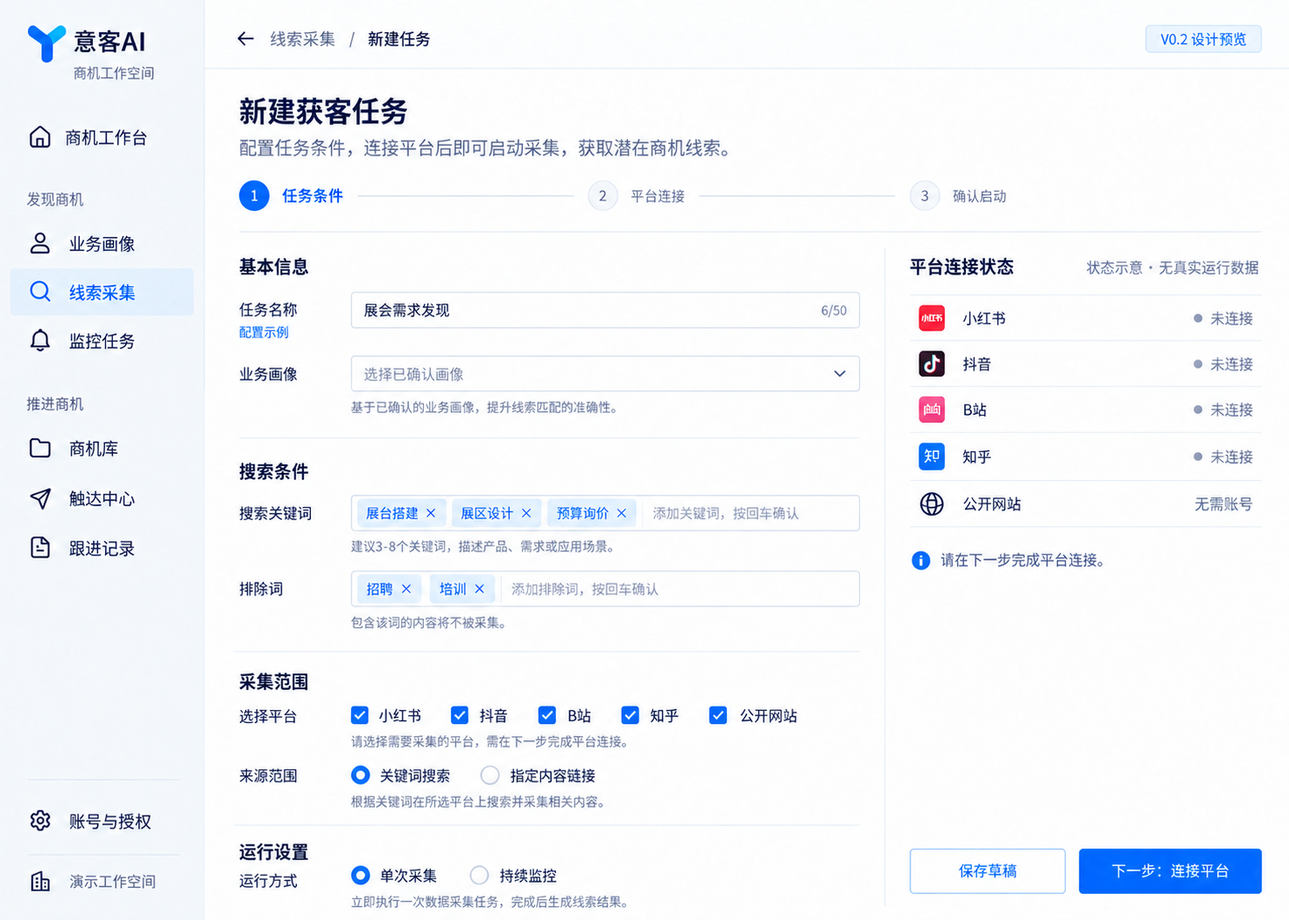
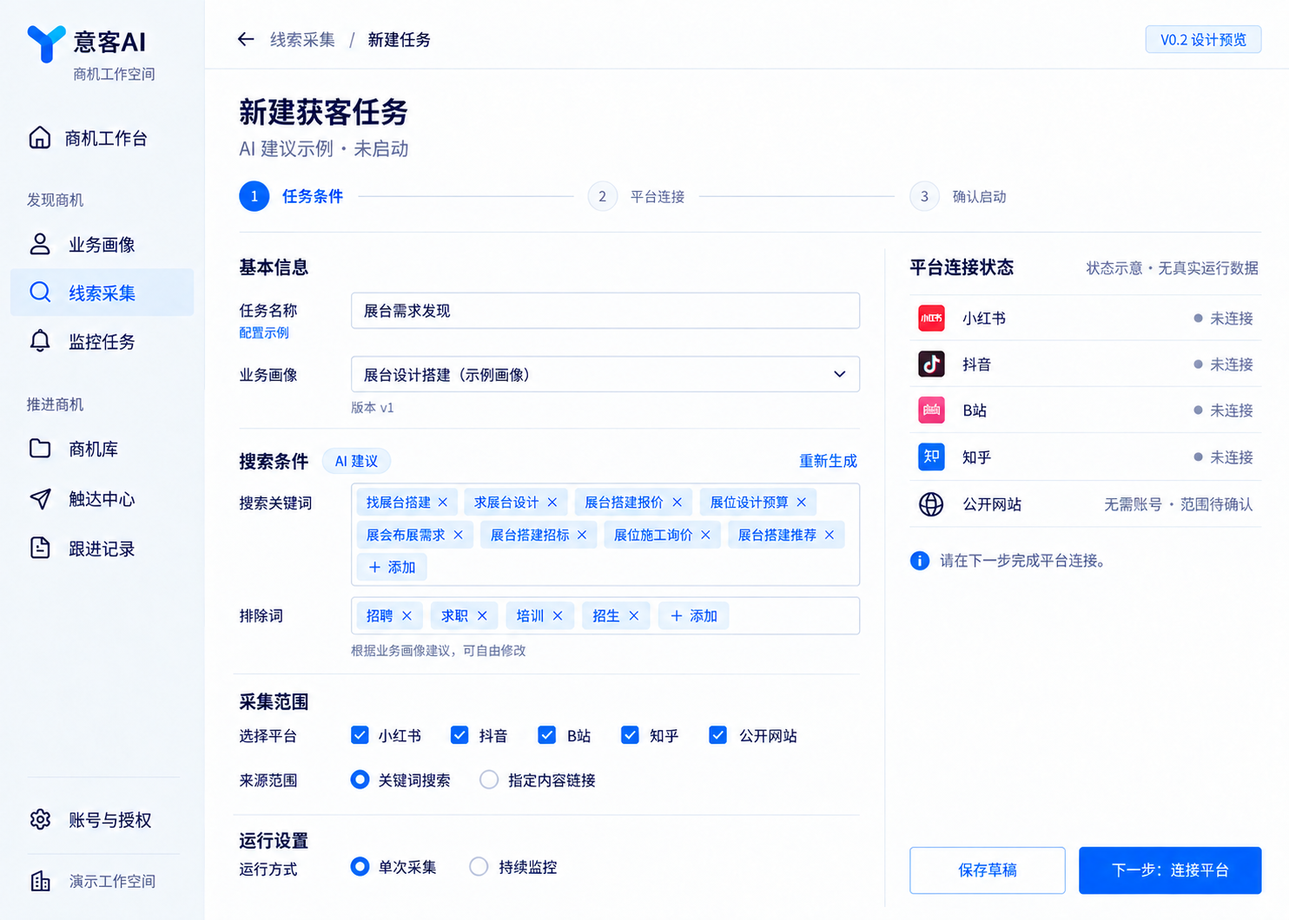
design: prefill editable search conditions from business profiles

diff --git a/design/v02-suite/index.html b/design/v02-suite/index.html
@@ -8,10 +8,10 @@
 </head>
 <body>
   <header>
-    <div><strong>意客AI · 页面设计评审</strong><span id="summary">R1 · 等待你的确认</span></div>
+    <div><strong>意客AI · 页面设计评审</strong><span id="summary">等待你的确认</span></div>
     <nav aria-label="评审工具"><button id="overview" type="button">总览</button><button id="previous" type="button">上一页</button><button id="next" type="button">下一页</button><a id="original" target="_blank" rel="noopener">打开原图</a></nav>
   </header>
-  <aside><p class="hint">这是一套设计图，图中产品按钮尚不能操作。</p><nav id="pages" aria-label="设计页目录"></nav><a class="spec" href="PAGE_STATE_MATRIX.md">页面与状态说明</a><a class="spec" href="DESIGN_SYSTEM.md">统一组件规范</a></aside>
+  <aside><p class="hint">这是一套设计图，图中产品按钮尚不能操作。</p><nav id="pages" aria-label="设计页目录"></nav><a class="spec" href="AI_SEARCH_CONDITIONS.md">AI 搜索条件交互</a><a class="spec" href="PAGE_STATE_MATRIX.md">页面与状态说明</a><a class="spec" href="DESIGN_SYSTEM.md">统一组件规范</a></aside>
   <main>
     <section id="single" hidden><div class="caption"><h1 id="title" tabindex="-1"></h1><p id="position"></p></div><div class="canvas"><img id="screen" alt="" decoding="async"><p id="image-error" class="hint" role="status" hidden>图片加载失败，请刷新或通过“打开原图”查看。</p></div></section>
     <section id="grid"><div class="caption"><h1>完整页面与关键操作</h1><p>点击任意页面查看大图；可用左右方向键逐页浏览。</p></div><div id="thumbnails"></div></section>

diff --git a/design/v02-suite/review.js b/design/v02-suite/review.js
@@ -38,7 +38,7 @@ document.addEventListener("keydown",event=>{
 });
 fetch("manifest.json").then(response=>{if(!response.ok)throw new Error("manifest unavailable");return response.json();}).then(data=>{
   state.pages=data.pages;
-  el("summary").textContent="R1 · "+state.pages.length+" 页 · 等待你的确认";
+  el("summary").textContent=data.display_version+" · "+state.pages.length+" 页 · 等待你的确认";
   for(const [index,page]of state.pages.entries()){
     const nav=document.createElement("button");nav.type="button";nav.textContent=page.id+" · "+page.title;nav.addEventListener("click",()=>show(index));el("pages").append(nav);
     const tile=document.createElement("button");tile.type="button";tile.className="thumbnail";tile.addEventListener("click",()=>show(index));

diff --git a/design/v02-suite/AI_SEARCH_CONDITIONS.md b/design/v02-suite/AI_SEARCH_CONDITIONS.md
@@ -1,0 +1,56 @@
+# AI 搜索条件建议 · R2
+
+日期：2026-09-09。范围：P06 新建获客任务、P20 持续监控设置、P19 启动确认。状态：设计及功能要求已更新，界面与建议服务尚未实现，整套设计仍待用户确认。
+
+## 用户获得的结果
+
+选择已确认的业务画像后，自动得到一批可修改的搜索关键词和排除词，快速调整后进入平台连接与启动确认。AI 负责准备搜索方案，用户决定实际采用什么。
+
+建议优先覆盖买家会说的话、采购动作与业务同义表达。比如示例画像“展台设计搭建”，可产生“找展台搭建”“展位施工询价”“展台搭建报价”等；不能只堆行业名称，也不能把推荐关键词说成已发现客户。
+
+## 生成与编辑流程
+
+1. 从已确认画像进入新任务时带入该画像；只有一个有效画像时可预选。存在多个画像时明确当前选择；没有已确认画像时提供选择/完善入口，保留手动填写能力，不凭空声称“已根据你的业务生成”。
+2. 首次确定画像且字段未被人工编辑时，自动请求建议；关键词区就地显示“正在根据业务画像准备搜索条件”，不弹出聊天窗口。进入已保存草稿或模板时优先加载已有配置，不反复自动生成。
+3. 首次有效返回填入草稿，显示“AI 建议”和依据画像；建议 8–12 个不同意图的关键词，实际数量按业务信息和平台约束确定，不为凑数重复。排除词单独展示，允许全部删除；缺少依据时可以不给排除词。
+4. 用户可逐词编辑、删除、新增，也可直接粘贴多词。人工编辑立即成为当前草稿，下一步与保存都使用这份草稿。建议不会自动启动搜索、扩大平台范围或提高监控频率。
+5. “重新生成”先展示一批候选建议，不覆盖当前内容。用户选择“追加新词”“替换未修改的建议词”或取消；人工新增/修改的词始终保留。清空全部或替换人工内容需另有明确操作，不由重新生成隐式执行。追加时去重，用户删除过的建议不自动补回。
+6. 切换画像后提示旧条件来自哪个画像，保留人工内容；新建议仍按上述方式应用。未解决的画像版本变化在启动摘要明确提示，用户确认使用的画像与最终条件后才能启动。
+7. P20 复用同一条件编辑器和生成行为；切换单次/持续监控保留搜索草稿，重新生成搜索词不改变已填时间、频率、时区和设备。
+8. P19 只呈现当前最终条件、画像版本、平台/账号、设备及运行设置；返回修改去 P06/P20。确认页不重新生成，也不自行把当前草稿换回初始建议。
+
+## 信息来源与范围
+
+- 输入限当前客户已确认的画像版本：服务、客群、地区、交付范围、明确排除项；经用户选择的业务资料可以补充行业表达，不能把内部客户名称、联系方式或私密案例内容直接拼入平台搜索词。
+- 需求表达可由模型提出，但预算、联系人、采购项目、支持的平台能力等事实不能被编造。缺少业务范围时标记待补充，不把猜测记为已确认画像。
+- 按已选择且实际支持的来源生成适合该平台的表达；来源建议是可选项，用户应用后才变更平台选择，不能因模型推荐而自动连接或新增执行平台。
+- 地区优先使用平台支持的范围过滤或少量有依据的组合，避免每个词机械加地名漏掉需求。排除项需检查与搜索词/画像的冲突，不用过宽的“设计”“搭建”“推荐”等词误杀需求。
+- 界面不展示内部采集引擎、Skill、提示词或模型参数。客户看到的是业务画像、搜索条件、建议来源和可编辑结果。
+
+## 必须定义的状态
+
+| 状态 | 行为 |
+|---|---|
+| 未选择/未确认画像 | 可保存手工草稿；提示选择/完善画像；不伪造个性化建议 |
+| 首次生成中 | 保留其他表单输入；用户可取消或转手动编辑；开始手动编辑后晚到的结果只进入待应用建议 |
+| 生成成功 | 填充尚未编辑的初始字段，去重；显示画像依据及可编辑标签 |
+| 超时/失败/服务不可用 | 保留全部内容，支持重试与手动填写；人工配置可进入后续步骤，不用模板冒充 AI 成功 |
+| 请求返回时画像/草稿已变化 | 丢弃过期响应或作为明确的待应用建议；不得覆盖新画像的草稿 |
+| 重新生成有人工修改 | 并排/分组预览当前与新增词，应用方式明确，默认保留人工修改 |
+| 关键词与排除词冲突 | 标出冲突词与影响，允许删除或修改；阻止静默把全部有效搜索排除 |
+| 平台不支持某种搜索语法 | 使用该平台有效表达或提示用户调整；不把不支持的布尔语法直接执行 |
+| 启动前条件发生变化 | 摘要重新读取当前已保存版本，旧确认失效；以最终确认的配置执行 |
+
+## 实施归属与验收
+
+V02-04 增加搜索建议能力的输入/输出校验与真实模型调用；V02-05 接入自动触发、可编辑条件、生成状态与人工修改保护。沿用版本化研究方法的业务理解和证据边界，但需新增任务搜索建议的专用输出，现有研究规则包本身不代表这项能力已实现。
+
+每次建议记录客户身份、画像版本、请求 ID、规则/模型版本及生成结果；草稿另保留当前词项、建议来源、人工新增/修改/删除记录和当前版本。租户由服务端身份解析；同一草稿/画像的过期请求不能回写。按当前任务预算限制生成与重试，避免每次重绘/返回页面都重新收费调用。
+
+验收应实际覆盖：两个不同画像得到不同且相关的建议；首次选择后无需手写种子词即可得到结果；用户修改后重新生成不丢修改；删除词不会自动复活；切画像和并发响应不串写；失败可继续手填；P06/P20/P19 保持同一最终条件；零真实线索时不宣称推荐有效。
+
+产品验证看首次任务配置耗时、建议采纳/修改情况及后续去重有效线索比例；不以“生成了多少词”或 AI 动画证明效果。当前不承诺提高多少转化，也没有伪造模型调用或付费数据。
+
+## 设计图说明
+
+P06、P20、P19 的展台画像与搜索词为明确标识的设计示例。R2 只替换这三张图，其他 17 张沿用 R1；同一 R2 图册清单记录每张图片版本和摘要。重新生成预览、错误及并发状态复用现有表单与确认组件，遵循本文件，不另发明主导航。

diff --git a/design/v02-suite/PAGE_STATE_MATRIX.md b/design/v02-suite/PAGE_STATE_MATRIX.md
@@ -11,7 +11,7 @@
 | P03 | 业务画像 / 未确认填写示例 | 保存草稿留本页，确认后可去 P06；资料标签到 P04 | 保存中/失败、必填错误、确认摘要、修改已确认版本生成新版本、未保存退出 |
 | P04 | 资料与案例 / 空列表＋添加面板 | 保存资料草稿，确认后可供画像及联系准备引用 | 上传进度/失败、文件限制、AI 提取待确认、内部/对外引用范围、删除/撤销引用确认 |
 | P05 | 线索采集 / 配置草稿 | 新建或编辑到 P06，原始线索到 P07 | 无任务、执行中、取消中、受限、失败/重试、完成无结果；任务操作只作用当前任务 |
-| P06 | 新建获客任务 / 条件配置 | 第二步逐平台选执行账号，缺连接打开 P17；持续监控展开 P20；第三步 P19；可保存草稿及模板 | 未确认画像、平台缺连接、关键词错误、无可用来源、启动失败；返回保留配置 |
+| P06 | 新建获客任务 / AI 建议示例 | 首次选定画像自动准备可编辑关键词/排除词；第二步逐平台选执行账号，缺连接打开 P17；持续监控展开 P20；第三步 P19 | 未确认画像、生成中/失败、人工编辑、重新生成、过期响应、冲突词、平台缺连接、启动失败；保存/返回保留当前草稿 |
 | P07 | 原始线索 / 公开样例待复核 | 图中样例只读，不入客户库；真实候选绑定已确认画像、展示重新判断的证据，再由用户确认入库或排除 | 原文加载失败/过期、画像缺失、重复候选、批量复核确认、写入失败；真实复核包含匹配理由/行动信号/价值/风险/未知项；不由设备自报通过 |
 | P08 | 监控任务 / 待配置 | 新建监控到 P20，打开详情到 P09 | 运行中/已暂停/需处理/离线；启动、暂停、恢复确认；上次/下次时间仅来自真实执行 |
 | P09 | 监控详情 / 显式故障恢复示意 | 重新连接到 P17；返回 P08 | 每平台成功/无新增/登录失效/受限/失败/离线、部分完成、重试或取消；执行记录与配置标签 |
@@ -24,8 +24,8 @@
 | P16 | 账号与平台连接 / 未连接 | 连接到 P17；设备与授权到 P18 | 已连接/失效/受限/断开、能力差异、重新连接、断开影响任务确认；不伪称平台官方授权 |
 | P17 | 连接平台 / 等待原生登录 | 打开平台登录窗口，再检查连接；从 P16 来则返回 P16，从任务来则回原任务/步骤并保留草稿和选中的平台 | 打开窗口后可检查连接；扫码/验证码在平台原生页、等待/取消/超时、连接失败、登录成功但能力不足；连接不等于该平台全部能力已通过；不伪造二维码 |
 | P18 | 设备与使用授权 / 未激活 | 激活、设备绑定、更新、导出/备份恢复、支持 | 激活码错误/过期、撤销设备、更新发现/下载/失败/回退、备份保存/失败、恢复目标与覆盖确认、诊断脱敏；恢复仅当前客户获授权范围，不在桌面直接操作服务端整体数据库 |
-| P19 | 确认启动 / 有待补齐条件 | 返回 P06/P20 改配置；条件齐全后一次确认启动到 P05 或 P08 | 摘要包含画像版本/范围/平台/账号/频率/时区/执行设备及缺项；启动中防重复、失败保留草稿、结果不明先查任务状态 |
-| P20 | 持续监控设置 / 配置示例 | 配置每日时刻或间隔/时区，下一步连接平台，再到 P19 | 执行时刻重复/无效、频率超出平台可用范围、跨日窗口、夏令时、设备离线；本机恢复在线后按计划继续，不伪报漏跑为无新增 |
+| P19 | 确认启动 / 最终搜索配置示例 | 展示当前保存的最终条件；返回 P06/P20 改配置；条件齐全后一次确认启动到 P05 或 P08 | 不重新生成或换回初始建议；摘要包含画像版本/范围/平台/账号/频率/时区/设备及缺项；启动中防重复、失败保留草稿、结果不明先查任务状态 |
+| P20 | 持续监控设置 / AI 建议与日程示例 | 复用 P06 的自动建议与可编辑词；配置每日时刻或间隔/时区，下一步连接平台，再到 P19 | 重新生成保留人工词和日程；执行时刻重复/无效、频率超出平台范围、跨日窗口、夏令时、设备离线；恢复在线后按计划继续，不伪报无新增 |
 
 ## 主流程核对
 
@@ -41,6 +41,7 @@
 
 ## 关键条件的统一定义
 
+- P06/P20 的自动生成、人工修改保护、失败与过期响应按 [AI 搜索条件建议 R2](AI_SEARCH_CONDITIONS.md)执行；首次画像触发和重新生成是不同流程。图中词项为设计示例，实际建议需真实模型返回。
 - P06 第二步延用平台表：每行选择已有连接/新建连接、执行账号和可用来源能力；必须保留当前任务草稿和返回入口。P17 关闭后回该步骤；可进入 P19 检查摘要与缺项，全部所选来源条件满足才允许启动。不能把平台登录成功当成任务已启动。
 - P20 的“每日”展开执行时刻列表，“每隔”展开间隔与开始/结束窗口；时区默认本机值但必须可见、可改。平台频率限制由实际能力校验，不承诺任意高频。离线期间没有运行记录，恢复策略写入任务配置。
 - P19 是摘要确认，不进行采集；点击确认启动后由服务端返回唯一任务和运行状态。失败或响应未知时先查询同一请求，不建立第二份任务。已确认画像版本被后续修改时，旧任务保留原版本并明确提示更新操作。

diff --git a/docs/V02_COMMERCIAL_RELEASE_PLAN.md b/docs/V02_COMMERCIAL_RELEASE_PLAN.md
@@ -4,7 +4,7 @@
 依据：用户明确要求补齐缺失的必要功能，不能以当前代码能力压缩产品吸引力和付费价值。
 状态：当前正式产品目标与交付标准，已纳入本分支实施范围；新增功能尚未完成。本文件定义任务及验收，进度唯一来源为 [V0.2 实施任务书](V02_IMPLEMENTATION_TASKBOOK.md)。本文件不是上线或商业效果证明。
 目标代码基线：`yike-ai2026 / codex/customer-pilot / f82a9ae`，与演示来源分支的差异见 [迁入说明](V02_DESIGN_HANDOFF.md)。现有 CP-01～CP-05 是复用基础，CP-06 是部署子门禁；本计划定义当前完整获客版，功能与部署完成标准分别记录。
-设计状态：沿用蓝白科技风、Y Logo 和分组左侧导航；[全页面设计 R1](../design/v02-suite/README.md)已提供 20 张核心图及关键状态清单，等待用户统一确认后再进行页面实现。单页认可不能视为整套批准。后台协议、执行器和存储设计可与视觉工作并行。
+设计状态：沿用蓝白科技风、Y Logo 和分组左侧导航；[全页面设计 R2](../design/v02-suite/README.md)已提供 20 张核心图及关键状态清单，等待用户统一确认后再进行页面实现。单页认可不能视为整套批准。后台协议、执行器和存储设计可与视觉工作并行。
 
 ## 1. 产品承诺与首发边界
 
@@ -24,7 +24,7 @@
 |---|---|---|
 | 账号与授权 | 产品激活/登录/退出；客户空间；平台扫码连接、账号身份与失效状态、重新连接和断开；各账号会话隔离 | 客户可自行配置使用；用真实登录/失效/恢复验证。连接方式按实际实现命名，不假称官方 OAuth |
 | 业务画像与资料 | 服务、地区、客群、排除项；真实产品/案例资料；AI提取草稿后由用户确认；资料版本及引用范围 | 让检索和联系内容贴合客户业务；不凭空编造服务能力、案例和业绩 |
-| 获客任务 | 关键词/排除词、视频或作者链接、任务范围、运行周期；保存模板；预览配置、启动/暂停/恢复 | 将业务目标变成可重复运行的任务，减少配置成本 |
+| 获客任务 | 根据已确认业务画像自动建议一批可编辑关键词/排除词；增删、重新生成与人工修改保护；视频或作者链接、任务范围、运行周期；保存模板；预览最终配置、启动/暂停/恢复 | 减少首次配置负担，让建议贴合买家需求表达；生成成功不等于发现有效线索 |
 | 线索采集 | 首发多个平台实际关键词搜索、支持范围内的内容/评论采集；来源ID、URL、原文、时间、分页与去重；逐平台进度及失败原因 | 减少人工搜索与翻评论；一项业务任务覆盖多个来源，零结果如实显示 |
 | 持续监控 | 一任务选多个平台，分别定时运行、维护游标和内容版本；上次/下次执行、暂停/恢复、独立重试、部分成功和新增提醒 | 多个平台持续提供新发现；单平台受阻不拖停其他平台；重复不冒充新增，本地离线如实显示 |
 | AI意向判断 | 需求、区域、采购阶段、时间与预算的证据提取；需求方/同行/广告/无关判断；匹配理由、反证、未知项；人工纠错 | 让销售快速判断是否值得联系；匹配程度不冒充成交概率 |
@@ -47,7 +47,7 @@
 
 保留目前八个一级入口：商机工作台、业务画像、线索采集、监控任务、商机库、触达中心、跟进记录、账号与授权。
 
-- 获客任务创建与模板作为线索采集的主入口，单次运行结果可转为持续监控；任务配置复用业务画像。
+- 获客任务创建与模板作为线索采集的主入口，单次运行结果可转为持续监控；选定业务画像后自动准备可编辑搜索条件，重新生成不覆盖人工修改。具体状态与验收见 [AI 搜索条件建议](../design/v02-suite/AI_SEARCH_CONDITIONS.md)。
 - 视频、作者、评论属于来源类型与筛选维度，不各建一套互不贯通的客户库。
 - 资料与案例属于业务画像内的业务资料标签页；话术版本属于触达中心。
 - 工作台突出真实待处理队列和“新建获客任务”入口；运行数量、线索数量和联系结果仅来自数据库。

diff --git a/AUTHORITY.md b/AUTHORITY.md
@@ -28,13 +28,14 @@
 - 八个一级入口：商机工作台、业务画像、线索采集、监控任务、商机库、触达中心、跟进记录、账号与授权。
 - 监控必须覆盖多个平台，首发适配按多平台方案中的小红书、抖音、B站、知乎及公开网站/社区建议组合拆解。平台支持范围分别验收，不能只做一个平台后宣布完成。
 - 采用通用商机研究 Skill＋平台 Skill＋实际连接器＋可靠任务系统；Skill 要版本化入库，不能把提示词文档或平台菜单当成运行能力。
+- 新建获客任务根据已确认业务画像自动建议搜索关键词和排除词；用户可修改后采用。重新生成保留人工编辑，最后确认的条件才进入执行；[R2 交互约定](design/v02-suite/AI_SEARCH_CONDITIONS.md)适用于单次采集和持续监控。
 - 用户已确认取得 MediaCrawler 代码商业授权，按该前提复用，不重复索取。客户页面、普通状态及销售材料统一意客AI与业务名称；内部保留依赖和许可溯源。
 - 真实触达属于当前开发范围，必须绑定用户确认的对象、内容版本、渠道与连接身份；任一变化使原确认失效。未经确认不得发送，结果未知先核对，禁止盲目重试。
 - 复制草稿、打开来源、人工登记、平台发送回执、实际回复分别记录，不能相互冒充。
 
 ## 视觉与交付形态
 
-保留蓝白科技风、Y Logo 和左侧分组导航，减少装饰卡片与重复说明。先交付[完整页面图册与关键状态](design/v02-suite/README.md)，由用户统一确认后再用 image-to-code 实现，配合 ui-ux-pro-max 统一组件规范；不能只确认一页便自行定稿其他页面。当前 R1 为 20 张核心页面及操作弹窗图，复用状态另有清单，全部待用户确认。
+保留蓝白科技风、Y Logo 和左侧分组导航，减少装饰卡片与重复说明。先交付[完整页面图册与关键状态](design/v02-suite/README.md)，由用户统一确认后再用 image-to-code 实现，配合 ui-ux-pro-max 统一组件规范；不能只确认一页便自行定稿其他页面。当前 R2 为 20 张核心页面及操作弹窗图，复用状态另有清单，全部待用户确认。
 
 用户确认记录须绑定设计版本、图片摘要及修改意见；没有明确确认不能把设计标为 APPROVED。按图开发后，用相同视口与状态的真实运行截图逐页对照；实质布局或流程变更先更新设计再确认。后台协议、数据库、Skill 与执行器不因等待整套视觉确认而停工。
 

diff --git a/design/v02-suite/prompts/r2/BRIEF.md b/design/v02-suite/prompts/r2/BRIEF.md
@@ -1,0 +1,21 @@
+# R2 搜索条件建议 · 共用设计简报
+
+日期 2026-09-09。用户最新要求：新建获客任务自动给一批搜索条件，人可以修改。此次只更新 P06、P20、P19，不实现业务界面。沿用当前蓝白/八导航/YLogo、自然1440×1024近似原图1487×1058比例。
+
+## 一致的数据示例
+
+- 任务名：展台需求发现（P20 为展台需求监控）
+- 业务画像下拉：展台设计搭建（示例画像），版本 v1。明确“AI 建议示例 · 未启动”，不是实际客户画像确认或已接通能力。
+- 搜索关键词8个，全部可删除/编辑/新增：找展台搭建、求展台设计、展台搭建报价、展位设计预算、展会布展需求、展台搭建招标、展位施工询价、展台搭建推荐。
+- 排除词4个，全部可修改/删除：招聘、求职、培训、招生。
+- 平台沿用五个选项和本轮已有配置：小红书、抖音、B站、知乎、公开网站；四社交平台未连接，公开网站无需账号但范围待确认。不得造真实账号、结果、转化、精确率、连接成功、二维码。
+
+## 核心控件
+
+搜索条件标题旁小标签“AI 建议”，右侧文本操作“重新生成”。关键词多行chips（8个）+添加；排除词chips（4个）+添加。短提示仅一行“根据业务画像建议，可自由修改”。不要新增对话大面板、装饰星星、长篇说明或性能指标。
+
+P06与P20实际字段布局按各自图保持：P06单次采集；P20持续监控，频率/两时刻09:00、15:00/时区/离线恢复及添加时间保持。P19显示最终配置摘要，带“条件来源：AI建议，可返回修改”；不能提供“重新生成”直接越过条件页，在P19只返回修改再核对。P19补上“执行设备：本机（待绑定）”与“画像版本：示例v1”，下方清晰缺项和禁用启动。
+
+## 交互事实与边界
+
+首次选定已确认业务画像且搜索字段尚未人工编辑时，产品规划为自动请求建议并填入草稿。结果绑定画像版本，切换画像或重新生成不静默覆盖人工编辑。生成失败保留内容且允许手动配置；最后启动确认才采用配置并执行任务。图中的建议仅为设计示意，不能宣称现在已经实现AI服务。

diff --git a/design/v02-suite/GENERATION_R2_P20.md b/design/v02-suite/GENERATION_R2_P20.md
@@ -1,0 +1,23 @@
+# P20 R2：AI 建议与可编辑搜索条件
+
+日期：2026-09-09。静态设计修订，当前待用户确认；不代表 AI 建议服务、平台连接或任务执行已经实现。
+
+- 模式：内置 `image_gen` 精修，未使用 CLI/API 回退。
+- 完整提示词：[P20.txt](prompts/r2/P20.txt)；共用依据：[R2 简报](prompts/r2/BRIEF.md)。
+- 实际参考：R1 的 P20 为编辑目标，Y Logo 为品牌参考，R1 的 P06 为公共壳/组件参考；调用前已逐张查看并实际附入三张图片。R1 图片版本可从提交 `1c3b72025a562de0fa8e6f73c588a788ad2c9fd3` 溯源。
+- 生成 ID：`exec-64f2ee29-7478-4cd8-9966-7b2e18ff005e`。
+- 原始输出标识：`generated_images/01a0845b-4bf9-76e1-b074-e0894a11fd3c/exec-64f2ee29-7478-4cd8-9966-7b2e18ff005e.png`。
+- 稳定资产：[screens/P20.png](screens/P20.png)，原始尺寸 `1485×1059`。
[1 lines of base64/hex data omitted]
+- 保存方式：原样复制 PNG，已验证与生成原图字节一致；未重采样、绘图或程序修改图片。
+
+## 静态核验
+
+- 搜索条件具备 AI 建议标签、重新生成文本操作、八个可移除关键词与添加入口；关键词依次为找展台搭建、求展台设计、展台搭建报价、展位设计预算、展会布展需求、展台搭建招标、展位施工询价、展台搭建推荐。
+- 四个排除词为招聘、求职、培训、招生，带移除与添加入口；短提示为“根据业务画像建议，可自由修改”。
+- 业务画像明确为“展台设计搭建（示例画像）”及 v1；页面标明“AI 建议示例 · 未启动”。
+- 持续监控、每日/每隔、09:00 与 15:00 两行时间、添加时间、Asia/Shanghai（北京时间）及离线恢复提示完整保留在画面内。
+- 保留五平台选择；四社交平台未连接，公开网站无需账号且范围待确认；没有真实账号、运行结果或业务指标。
+- 线索采集导航高亮、三步流程、Logo、保存草稿与下一步按钮保持一致。全图已查看，未发现需要再次精修的明显错字或裁切。
+
+本记录只覆盖设计资产核验，不代替真实交互、AI 服务或平台运行验收。manifest、图册入口与确认记录由主 Agent 统一更新。

diff --git a/design/v02-suite/GENERATION_R2_P06.md b/design/v02-suite/GENERATION_R2_P06.md
@@ -1,0 +1,22 @@
+# R2 · P06 搜索条件建议精修
+
+日期：2026-09-09。状态：设计预览，待用户统一确认；没有实现业务界面或 AI 服务。
+
+- 依据：[R2 共用简报](prompts/r2/BRIEF.md)。
+- 完整提示词：[P06.txt](prompts/r2/P06.txt)。
+- 方式：内置 imagegen，单次精修；实际附原 P06 和 Y Logo，调用前均已查看。没有 CLI、代码绘图或重采样。
+- 生成 ID：`exec-c820929d-0a8e-43ce-916e-99a2b27f2c1e`。
+- 原输出：`generated_images/01a08464-f648-7a81-8581-b38ad327f51a/exec-c820929d-0a8e-43ce-916e-99a2b27f2c1e.png`。
+- 交付：[screens/P06.png](screens/P06.png)，1484 × 1060 PNG，原样覆盖；PNG CRC 校验通过。
[2 lines of base64/hex data omitted]
+
+## 视觉复查
+
+- 原蓝白壳、八入口、线索采集选中、三步骤及双栏结构保持；运行方式仍为单次采集，下一步仍是连接平台。
+- 任务名为展台需求发现；画像已选“展台设计搭建（示例画像）”，版本 v1；“AI 建议示例 · 未启动”明确。
+- 搜索条件有 AI 建议标签、重新生成文字操作。八个可删除/编辑关键词逐项为：找展台搭建、求展台设计、展台搭建报价、展位设计预算、展会布展需求、展台搭建招标、展位施工询价、展台搭建推荐。
+- 四个排除词为招聘、求职、培训、招生；两组均有添加。短提示为“根据业务画像建议，可自由修改”。
+- 四个社交平台未连接；公开网站无需账号、范围待确认。没有真实账号、执行结果或连接成功声明。
+
+这张图只展示建议填入后的可编辑示例。首次建议、切换画像、重新生成不得静默覆盖人工编辑，失败保留内容及最终启动确认等交互仍以共用简报为准，尚未作为运行功能验证。

diff --git a/design/v02-suite/GENERATION_R2_P19.md b/design/v02-suite/GENERATION_R2_P19.md
@@ -1,0 +1,20 @@
+# R2 P19 生成记录
+
+- 日期：2026-09-09。
+- 工具：内置 `image_gen`，单张独立编辑生成；未使用 CLI、手工绘图或产品实现。
+- 输入一：`screens/P19.png`，R1 确认启动页面，作为实际编辑目标；生成前已直接查看。
+- 输入二：`../brand/yike-logo-blue-v1.png`，实际品牌参考；生成前已直接查看。
+- 完整提示词：`prompts/r2/P19.txt`。
+- 生成 ID：`exec-52105f2f-5d31-40a9-a44e-04cd437b96dd`。
+- 原始输出：`generated_images/01a08464-c742-7c31-af88-c3fe9a7dd0b2/exec-52105f2f-5d31-40a9-a44e-04cd437b96dd.png`（Codex 生成目录下的相对标识；原始文件保留）。
+- 项目文件：`screens/P19.png`。
+- 尺寸：1484 × 1060。
+- 状态：`PENDING_USER_REVIEW`；本记录不是用户确认或运行验收。
+
+## 视觉检查
+
+已检查生成结果：保留蓝白固定页面壳、Y 标志、线索采集高亮及第三步确认启动；八个关键词和四个排除词均完整可见。摘要显示示例业务画像、示例 v1、条件来源 AI 建议（示例）和本机待绑定；只提供返回修改，未在确认页提供重新生成。四个社交平台保持未连接，公开网站范围待确认；缺项提示及禁用确认启动按钮完整可见。未新增真实账号、平台接通、运行结果、商机业绩或发送结果。
+
+## 交互交接注意
+
+生成建议只写入任务草稿；启动采用用户最终确认的配置快照。返回修改后应重新核对摘要，不直接执行；画像版本、用户编辑后的条件及执行设备须进入任务配置。示例画像不满足真实启动条件。对画像切换或重新生成，需保留手工输入并明确处理覆盖，不能静默替换。

diff --git a/design/v02-suite/README.md b/design/v02-suite/README.md
@@ -1,8 +1,10 @@
-# 意客AI · 全页面设计评审 R1
+# 意客AI · 全页面设计评审 R2
 
 2026-09-09 · **20 张核心页面及操作状态 · 全部待用户确认**
 
 这是一套延续蓝白科技风、Y Logo 和八入口导航的完整核心页面设计。先一起确认，再按设计开发。图册仅展示静态设计，图片中的产品按钮尚不能操作，平台列表是规划范围而非已支持声明。
+
+本轮 R2 更新 P06/P19/P20：根据业务画像自动准备可编辑搜索条件，重新生成保留人工修改，启动确认使用最终草稿。其余 17 张沿用 R1。[交互与验收约定](AI_SEARCH_CONDITIONS.md)。
 
 ## 查看方式
 
@@ -39,6 +41,7 @@
 - [页面流程与关键状态](PAGE_STATE_MATRIX.md)：每页操作、跳转、缺项、失败及恢复。
 - [组件与验收规范](DESIGN_SYSTEM.md)：统一视觉、按图实现、必要的文字勘误。
 - 生成记录：[A 登录/资料/连接/启动](GENERATION_A.md)、[B 采集/监控](GENERATION_B.md)、[C 触达/跟进/授权](GENERATION_C.md)、[工作台/商机库/证据复用](GENERATION_ROOT.md)。`generated_images/…` 为生成环境缓存溯源标识，仓库内稳定资产以 `screens/` 为准。
+- R2 生成记录：[P06](GENERATION_R2_P06.md)、[P19](GENERATION_R2_P19.md)、[P20](GENERATION_R2_P20.md)，提示词位于 `prompts/r2/`。
 - [开发任务书](../../docs/V02_IMPLEMENTATION_TASKBOOK.md)：真实业务实现进度，不以图册完成替代功能完成。
 
 整套确认后，先校准公共壳和基础组件，再按同一套规范逐页实现；用相同视口、相同数据状态的运行截图对照。涉及实质布局或业务流程变化时先改设计再确认。
